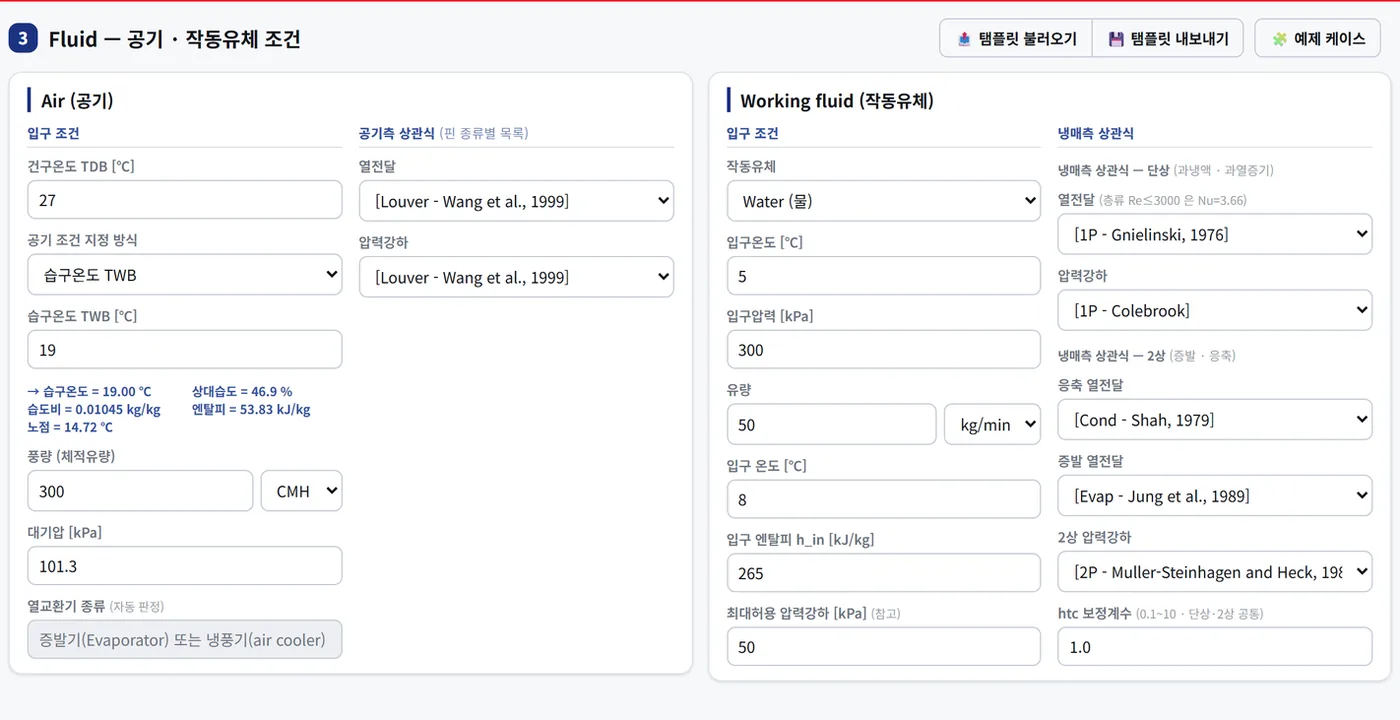
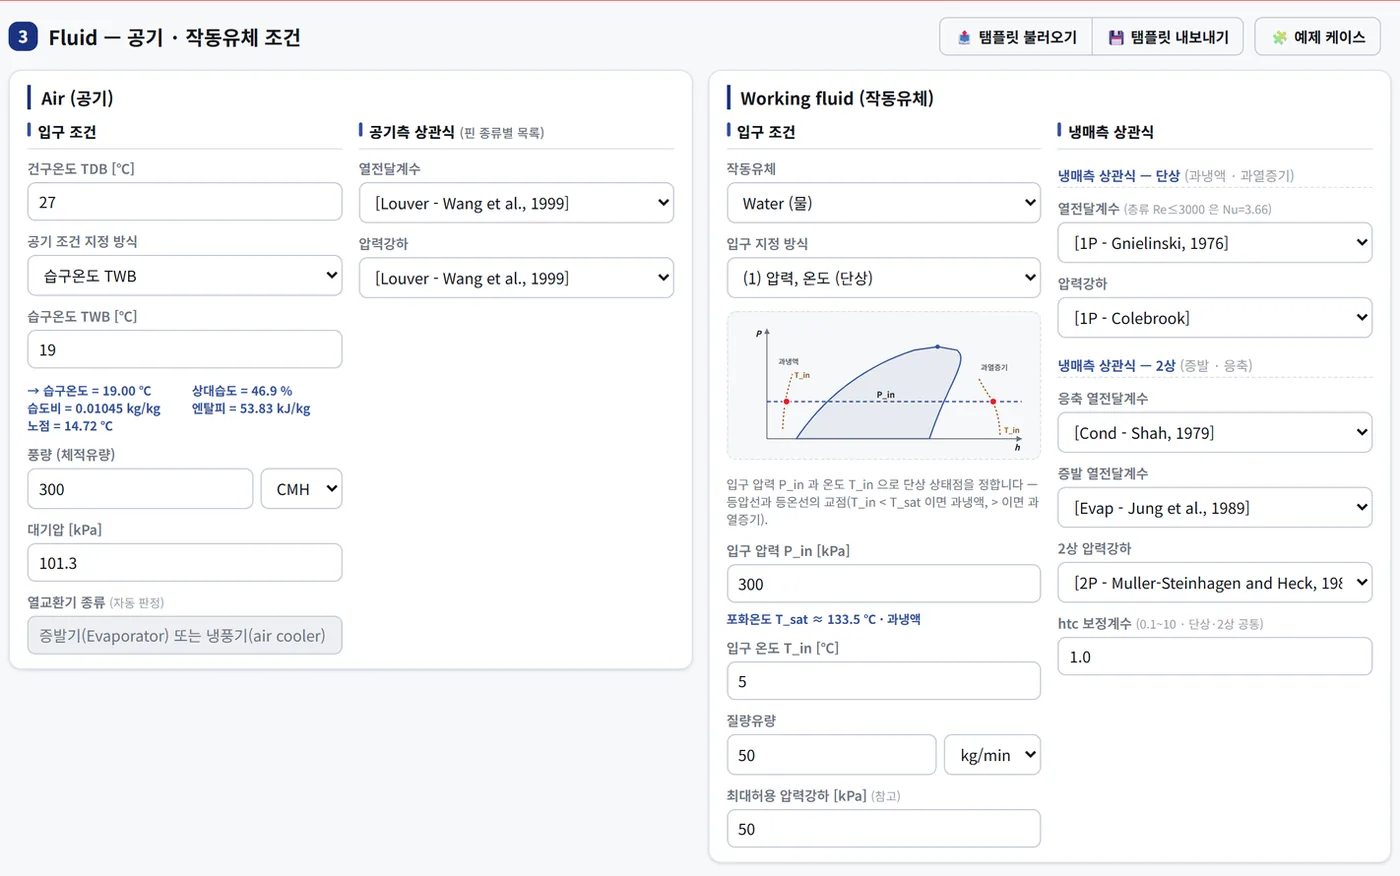
입구 지정 4모드 반영 · ③ 유체 조건 화면 교체 · 실험 기간 2023~2025
- 프로그램 2026-09-09 개편(입구 지정 4모드)에 맞춰 기능 ③ 설명과 사양표를 앱 i18n(r.mode.*) 문구로 교체
  · (1) 압력·온도 · (2) 압력·건도 · (3) 압력·엔탈피 · (4) 출구압력·엔탈피 — 물 포함 공통, 부동액 수용액은 (1)만
  · 사양표 행 이름 '냉매 입구 지정' → '입구 지정 방식'
- ③ 유체 조건 화면을 새 화면(4모드 선택 · P-h 스케치)으로 재촬영 → assets/fluid.webp 1400×720 → 1400×876,
  index·m 의 img height 도 876
- 실험 기간 카드 2023~2024년 → 2023~2025년
- 확인: Chrome CDP 390px(m · index) · 1280px(index) 가로 넘침 0, 두 판 문구는 배치 차이만

diff --git a/m.html b/m.html
@@ -319,11 +319,11 @@ h2{margin:0; font-size:21px; line-height:1.3; font-weight:800; letter-spacing:-.
         <ul>
           <li>공기 입구 상태는 건구온도에 <b>습구온도·상대습도·절대습도·엔탈피·노점</b> 중 하나를 더해 지정합니다.</li>
           <li>작동유체는 <b>70종</b>(물·공기·R717·R744·R290·R410A·R134a·R1234yf·<b>부동액 EG·PG 수용액</b> 등)에서 고릅니다 — 물성은 CoolProp 기반입니다.</li>
-          <li>단상 유체는 입구 압력·온도·유량을 직접 넣고, 냉매는 <b>직접(P · T/건도)</b>, <b>증발기(응축기 출구 기준, 입구압 지정)</b>, <b>증발기(입구 엔탈피 · 출구압 지정)</b> 중에서 고릅니다.</li>
+          <li>작동유체 입구는 <b>(1) 압력·온도</b>, <b>(2) 압력·건도</b>, <b>(3) 압력·엔탈피</b>, <b>(4) 출구압력·엔탈피</b> 네 방식 중에서 고릅니다 — 물도 냉매처럼 네 방식을 모두 쓰고, 부동액 수용액은 (1)로만 지정합니다.</li>
           <li>단상·2상 열전달과 압력강하 상관식을 각각 선택합니다.</li>
         </ul>
         <figure class="shot">
-          <img src="assets/fluid.webp" width="1400" height="720" loading="lazy"
+          <img src="assets/fluid.webp" width="1400" height="876" loading="lazy"
                alt="유체 조건 화면 — 공기측과 작동유체측 입구 조건, 상관식 선택 항목이 두 열로 배치되어 있다.">
           <figcaption>③ 유체 조건 — 공기 입구 상태 5방식 · 작동유체 70종</figcaption>
         </figure>
@@ -421,7 +421,7 @@ h2{margin:0; font-size:21px; line-height:1.3; font-weight:800; letter-spacing:-.
           <tr><th>회로</th><td>드래그 편집 · 분지(split)/합지(merge) · 회로별 튜브 수 불균등 허용
             <br>미연결 튜브는 독립 1튜브 회로로 자동 처리
             <br>유량 분배: ΔP 균일화(반복 자기분배) 또는 균등 분배</td></tr>
-          <tr><th>냉매 입구 지정</th><td>단상 유체: 입구 P · T · 유량 직접 지정<br>냉매: 직접(P · T/건도) · 증발기(응축기 출구 기준, 입구압 지정) · 증발기(입구 엔탈피 · 출구압 지정)</td></tr>
+          <tr><th>입구 지정 방식</th><td>(1) 압력·온도(단상) · (2) 압력·건도(2상) · (3) 압력·엔탈피 · (4) 출구압력·엔탈피(입구압력은 압력강하를 포함해 역산)<br>물 포함 모든 작동유체 공통 · 부동액 수용액은 (1)만</td></tr>
           <tr><th>결과</th><td>용량 Q · 압력강하 ΔP · 응축수 · 공기/냉매 입출구 상태 ·
             습공기선도 · P-h 선도 · 면/열별 분포 컬러맵</td></tr>
           <tr><th>파일</th><td>엑셀 설계 템플릿 입출력 · 결과 내보내기(형상·회로도·조건·셀별 원자료)
@@ -452,7 +452,7 @@ h2{margin:0; font-size:21px; line-height:1.3; font-weight:800; letter-spacing:-.
       </div>
       <div class="cardbox">
         <h3>실험 기간</h3>
-        <p>2023~2024년 한국기계연구원 히트펌프연구센터 열교환기 시험설비에서 수행한 자체 실험 데이터입니다.</p>
+        <p>2023~2025년 한국기계연구원 히트펌프연구센터 열교환기 시험설비에서 수행한 자체 실험 데이터입니다.</p>
       </div>
     </div>
   </section>

diff --git a/index.html b/index.html
@@ -502,12 +502,12 @@ h2{
           <ul>
             <li>공기 입구 상태는 건구온도에 <b>습구온도·상대습도·절대습도·엔탈피·노점</b> 중 하나를 더해 지정합니다.</li>
             <li>작동유체는 <b>70종</b>(물·공기·R717·R744·R290·R410A·R134a·R1234yf·<b>부동액 EG·PG 수용액</b> 등)에서 고릅니다 — 물성은 CoolProp 기반입니다.</li>
-            <li>단상 유체는 입구 압력·온도·유량을 직접 넣고, 냉매는 <b>직접(P · T/건도)</b>, <b>증발기(응축기 출구 기준, 입구압 지정)</b>, <b>증발기(입구 엔탈피 · 출구압 지정)</b> 중에서 고릅니다.</li>
+            <li>작동유체 입구는 <b>(1) 압력·온도</b>, <b>(2) 압력·건도</b>, <b>(3) 압력·엔탈피</b>, <b>(4) 출구압력·엔탈피</b> 네 방식 중에서 고릅니다 — 물도 냉매처럼 네 방식을 모두 쓰고, 부동액 수용액은 (1)로만 지정합니다.</li>
             <li>단상·2상 열전달과 압력강하 상관식을 각각 선택합니다.</li>
           </ul>
         </div>
         <figure class="shot">
-          <img src="assets/fluid.webp" width="1400" height="720" loading="lazy"
+          <img src="assets/fluid.webp" width="1400" height="876" loading="lazy"
                alt="유체 조건 화면 — 공기측과 작동유체측 입구 조건, 상관식 선택 항목이 두 열로 배치되어 있다.">
           <figcaption>③ 유체 조건 — 공기 입구 상태 5방식 · 작동유체 70종</figcaption>
         </figure>
@@ -625,7 +625,7 @@ h2{
               <br>미연결 튜브는 독립 1튜브 회로로 자동 처리
               <br>유량 분배: ΔP 균일화(반복 자기분배) 또는 균등 분배
             </td></tr>
-            <tr><th>냉매 입구 지정</th><td>단상 유체: 입구 P · T · 유량 직접 지정<br>냉매: 직접(P · T/건도) · 증발기(응축기 출구 기준, 입구압 지정) · 증발기(입구 엔탈피 · 출구압 지정)</td></tr>
+            <tr><th>입구 지정 방식</th><td>(1) 압력·온도(단상) · (2) 압력·건도(2상) · (3) 압력·엔탈피 · (4) 출구압력·엔탈피(입구압력은 압력강하를 포함해 역산)<br>물 포함 모든 작동유체 공통 · 부동액 수용액은 (1)만</td></tr>
             <tr><th>결과</th><td>
               용량 Q · 압력강하 ΔP · 응축수 · 공기/냉매 입출구 상태 · 습공기선도 · P-h 선도 · 면/열별 분포 컬러맵
             </td></tr>
@@ -664,7 +664,7 @@ h2{
           </div>
           <div class="card">
             <h3>실험 기간</h3>
-            <p>2023~2024년 한국기계연구원 히트펌프연구센터 열교환기 시험설비에서 수행한 자체 실험 데이터입니다.</p>
+            <p>2023~2025년 한국기계연구원 히트펌프연구센터 열교환기 시험설비에서 수행한 자체 실험 데이터입니다.</p>
           </div>
         </div>
       </div>
